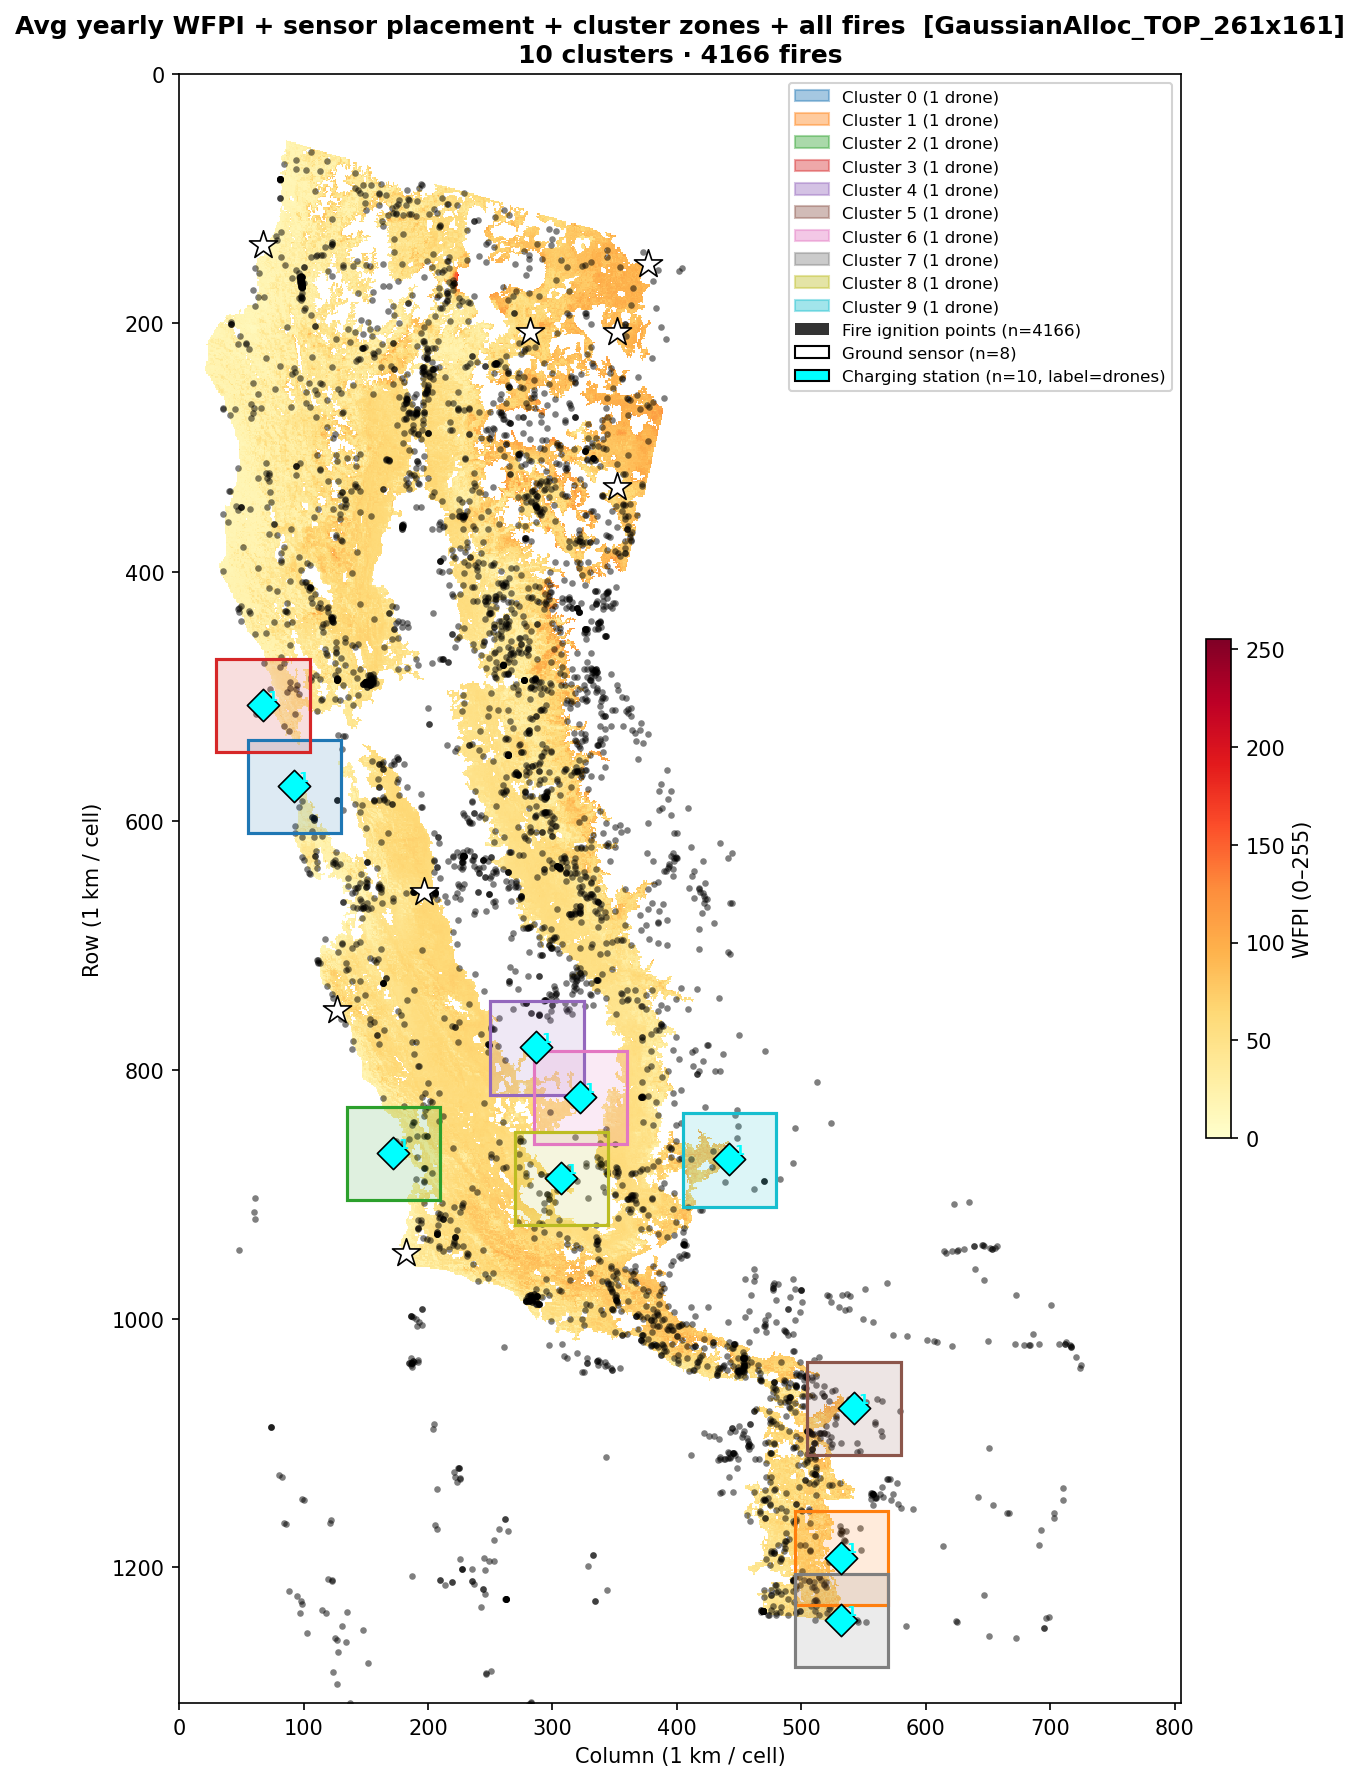
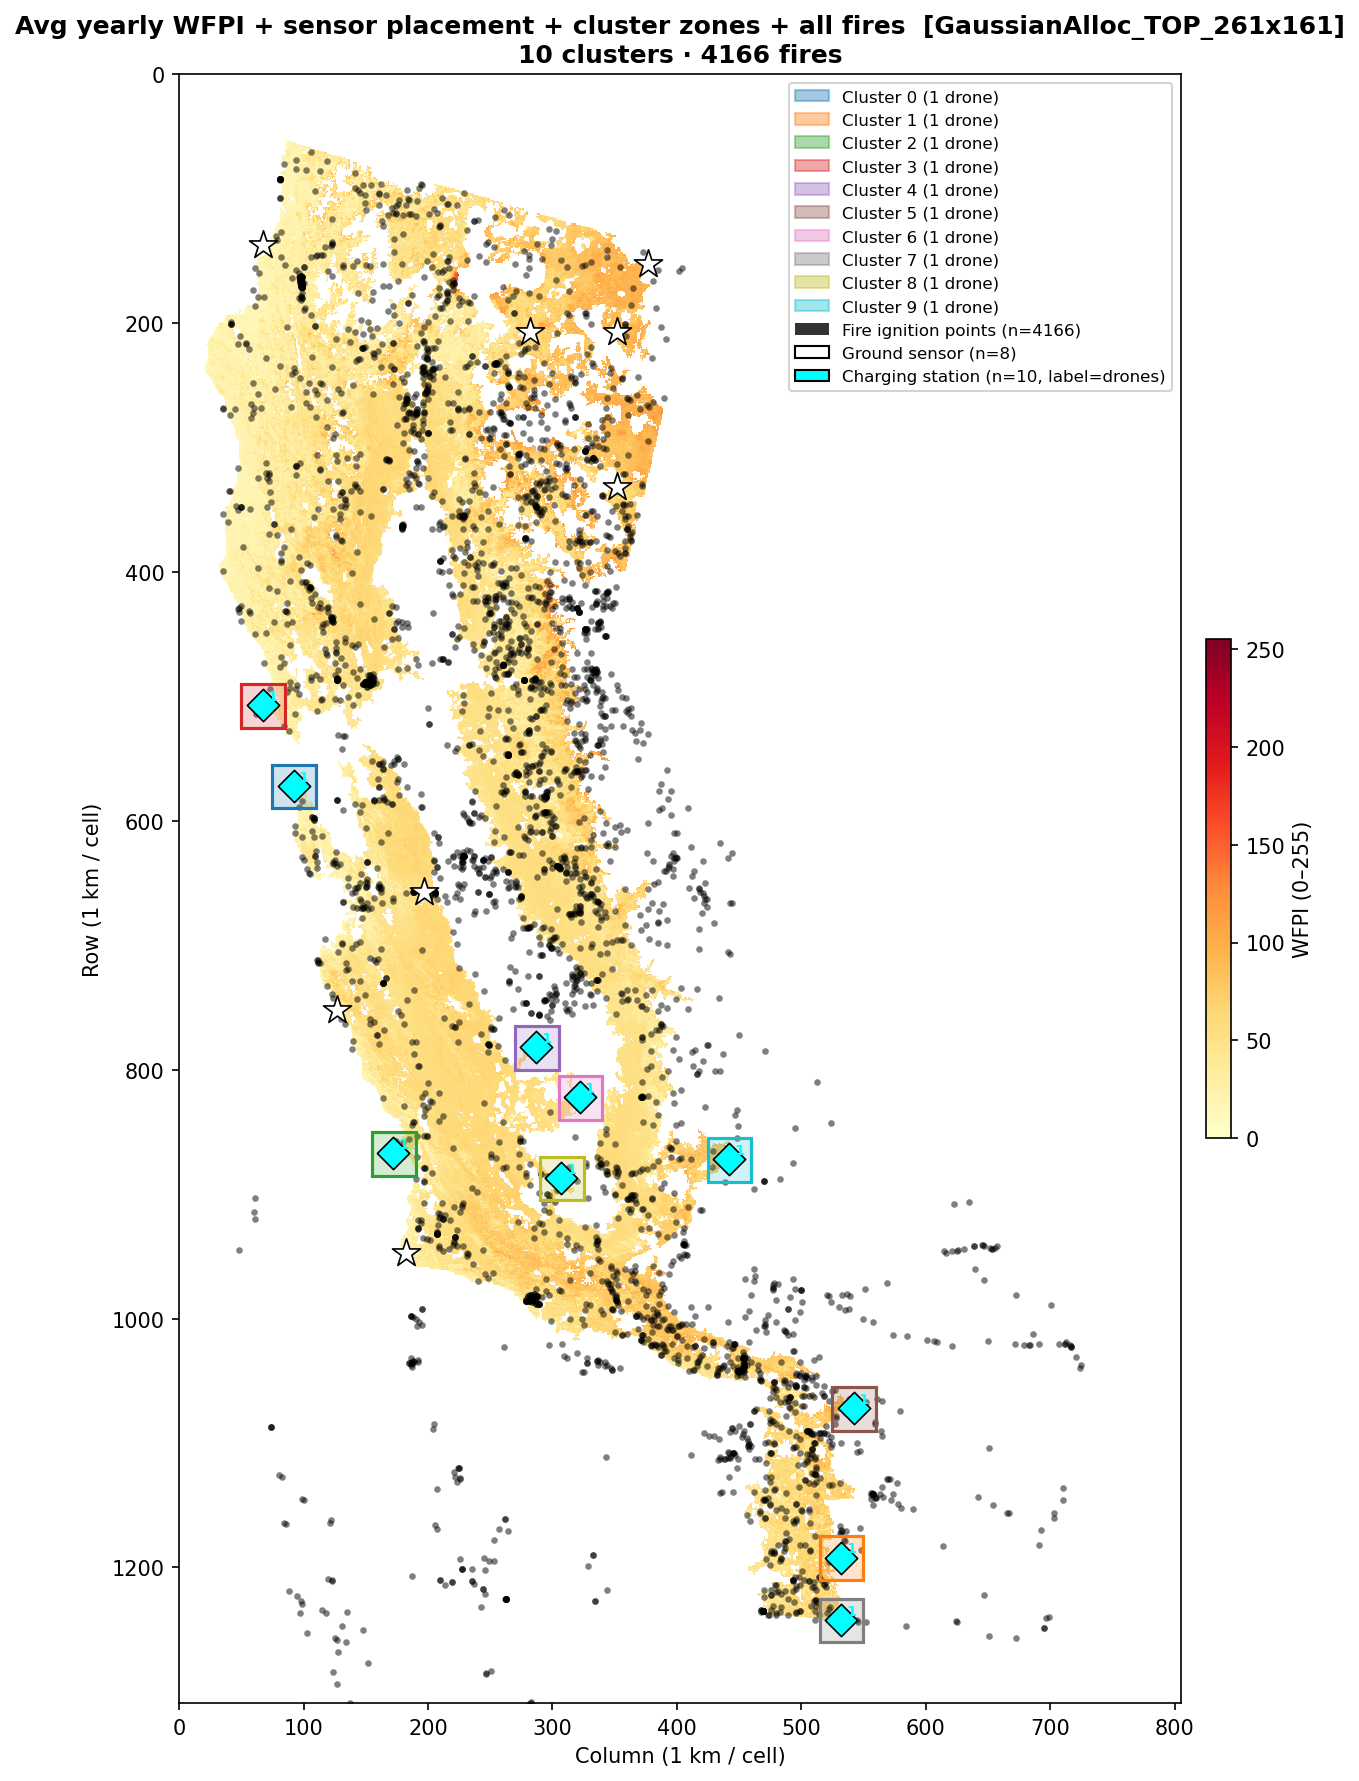
Fix cluster zone radius: use actual one-way drone reach (battery/2)
Replace single bounding-box-per-cluster with one L∞ square per station,
radius = MAX_BATTERY_SUBSTEPS // 2 = 3 opt-cells (15 km).  This reflects
the true reachable zone: a drone must reserve battery for the return trip,
so max one-way reach = floor(max_battery / 2).  For multi-station clusters
each station's square is drawn in the same colour, forming the union of
reachable areas naturally.

diff --git a/visualize_sensor_placement.py b/visualize_sensor_placement.py
@@ -101,24 +101,7 @@ def compute_clusters(charging_locs_opt, drones_per_station):
     return clusters
 
 
-def cluster_bbox(cluster, max_rows, max_cols, scale=1):
-    """Return (col_lo, row_lo, width, height) for the cluster's reachable zone.
-
-    scale=1  → opt-space (coordinates are opt-cell indices)
-    scale=COVERAGE_W → data-space (coordinates are data-cell pixels)
-    """
-    stations = cluster["stations_opt"]
-    r_min = min(r for r, _ in stations) - MAX_BATTERY_SUBSTEPS
-    r_max = max(r for r, _ in stations) + MAX_BATTERY_SUBSTEPS + 1
-    c_min = min(c for _, c in stations) - MAX_BATTERY_SUBSTEPS
-    c_max = max(c for _, c in stations) + MAX_BATTERY_SUBSTEPS + 1
-
-    row_lo = max(0,        r_min * scale)
-    row_hi = min(max_rows, r_max * scale)
-    col_lo = max(0,        c_min * scale)
-    col_hi = min(max_cols, c_max * scale)
-
-    return col_lo, row_lo, col_hi - col_lo, row_hi - row_lo
+DRONE_REACH = MAX_BATTERY_SUBSTEPS // 2   # one-way reach in opt-cells (must reserve battery for return)
 
 
 # ── Fire loader ────────────────────────────────────────────────────────────────
@@ -187,19 +170,35 @@ def add_sensors_and_stations(ax, ground_locs, charging_locs,
 
 
 def add_cluster_boxes(ax, clusters, H, W, scale, legend_items):
-    """Overlay cluster reachable-zone rectangles."""
+    """Overlay the true reachable zone of each cluster.
+
+    For each charging station draw an L∞ square of radius DRONE_REACH
+    (= MAX_BATTERY_SUBSTEPS // 2), which is the furthest a drone can go
+    and still return on a single charge.  All stations in the same cluster
+    share a colour; their squares together form the full cluster coverage.
+    """
     for i, cluster in enumerate(clusters):
-        col_lo, row_lo, w, h = cluster_bbox(cluster, H, W, scale=scale)
         colour = CLUSTER_COLOURS[i % len(CLUSTER_COLOURS)]
-        ax.add_patch(Rectangle(
-            (col_lo, row_lo), w, h,
-            linewidth=1.5, edgecolor=colour, facecolor=colour, alpha=0.15, zorder=3
-        ))
-        ax.add_patch(Rectangle(
-            (col_lo, row_lo), w, h,
-            linewidth=1.5, edgecolor=colour, facecolor="none", zorder=4
-        ))
-        nd = cluster["n_drones"]
+        nd     = cluster["n_drones"]
+
+        for r_opt, c_opt in cluster["stations_opt"]:
+            row_lo = max(0, (r_opt - DRONE_REACH) * scale)
+            row_hi = min(H, (r_opt + DRONE_REACH + 1) * scale)
+            col_lo = max(0, (c_opt - DRONE_REACH) * scale)
+            col_hi = min(W, (c_opt + DRONE_REACH + 1) * scale)
+            w = col_hi - col_lo
+            h = row_hi - row_lo
+
+            ax.add_patch(Rectangle(
+                (col_lo, row_lo), w, h,
+                linewidth=1.5, edgecolor=colour, facecolor=colour,
+                alpha=0.20, zorder=3,
+            ))
+            ax.add_patch(Rectangle(
+                (col_lo, row_lo), w, h,
+                linewidth=1.5, edgecolor=colour, facecolor="none", zorder=4,
+            ))
+
         legend_items.append(
             mpatches.Patch(facecolor=colour, alpha=0.4, edgecolor=colour,
                            label=f"Cluster {i} ({nd} drone{'s' if nd != 1 else ''})")
